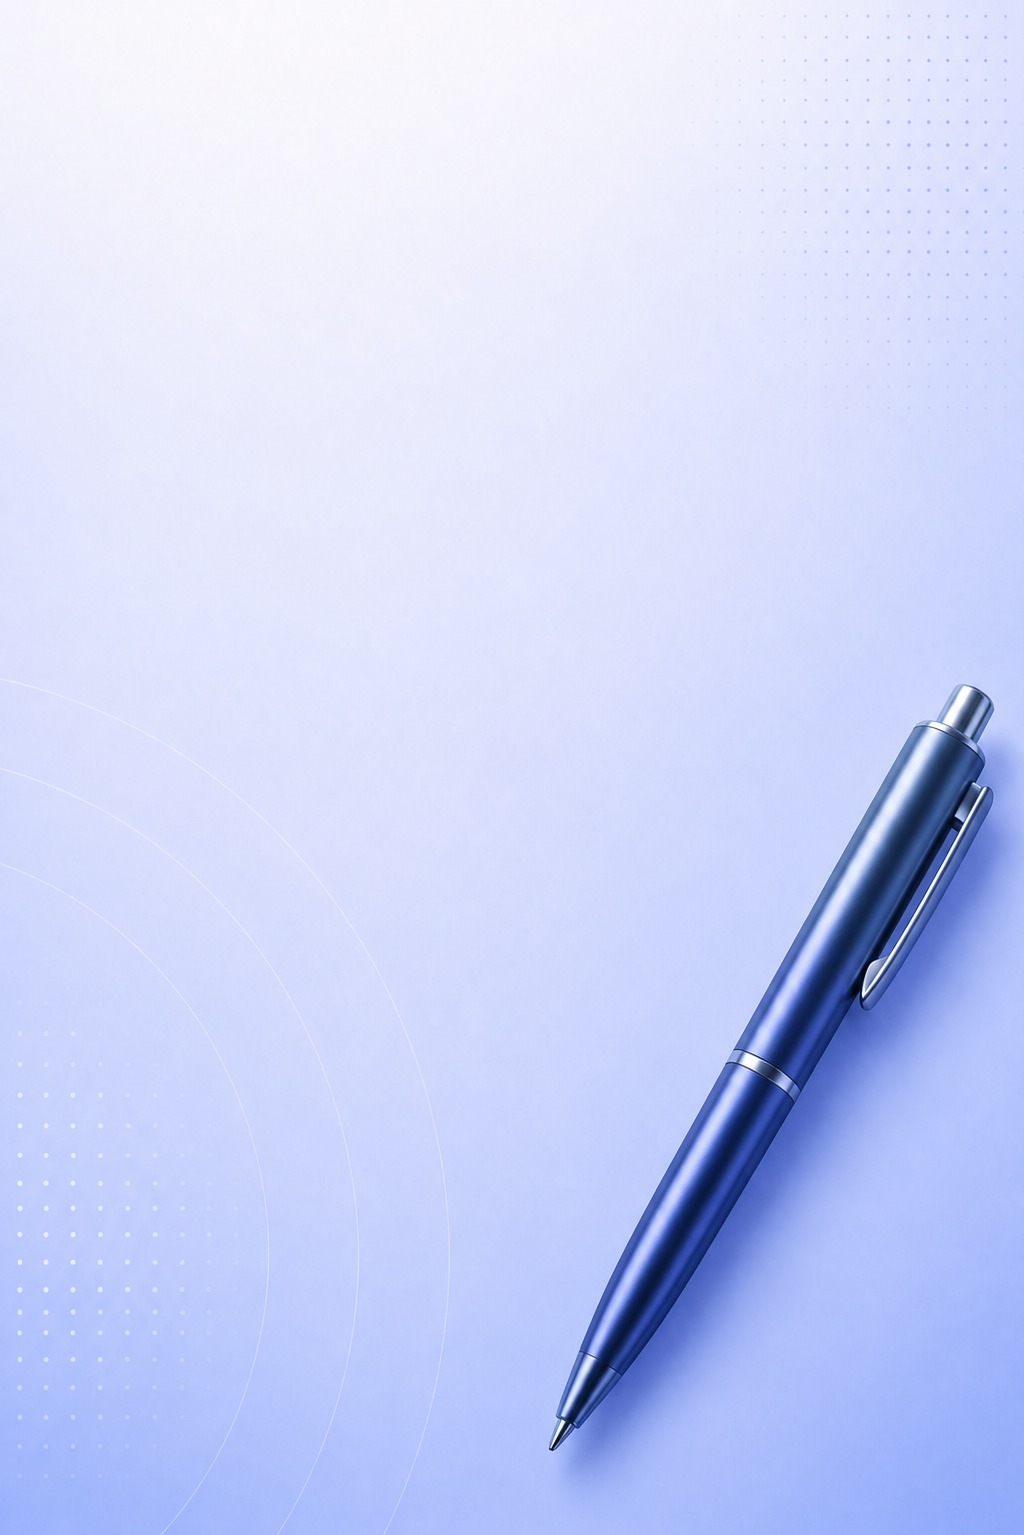
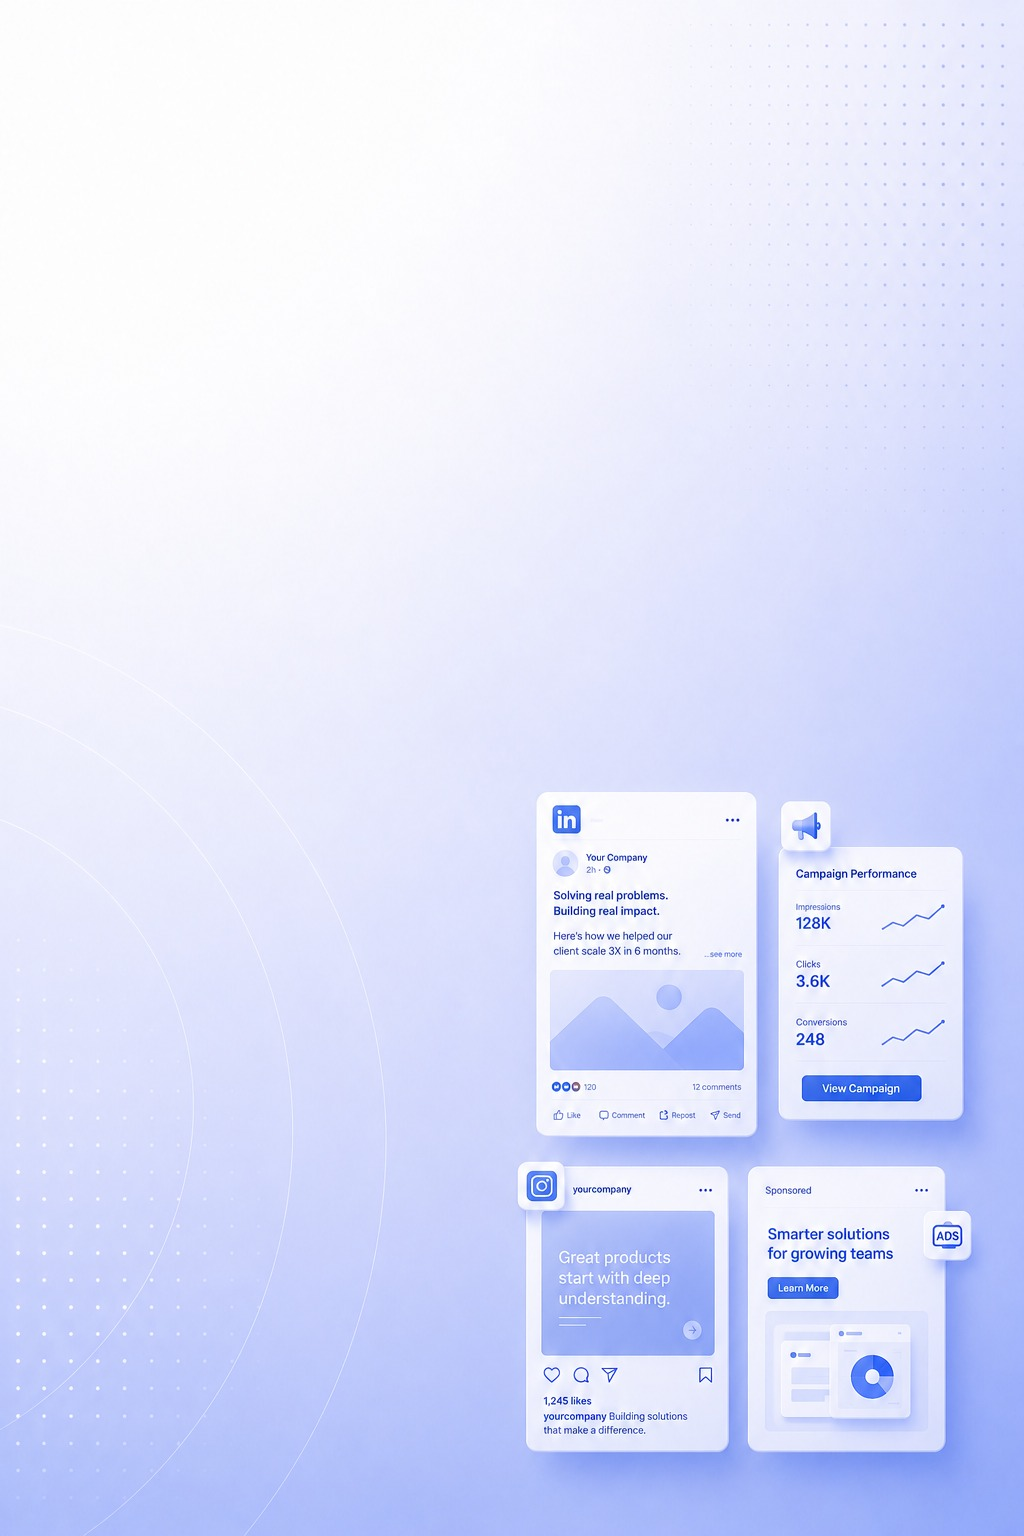
v 8

Changed region(s): [[0.5, 0.4287, 1.0, 0.9798], [0.0, 0.2143, 0.0938, 0.6736]]

diff --git a/pages/Portfolio/components/Hero/index.tsx b/pages/Portfolio/components/Hero/index.tsx
@@ -7,7 +7,7 @@ export function Hero() {
   return (
     <div className="bg-[#FCFCFD]">
       {/* Hero Grid */}
-      <div className="grid grid-cols-1 gap-8 lg:grid-cols-[calc(66.6667%+43px)_calc(33.3333%-43px)] lg:gap-8">
+      <div className="grid grid-cols-1 gap-8 lg:grid-cols-[calc(66.6667%+144px)_calc(33.3333%-144px)] lg:gap-8">
         {/* Left: Hero Content + Illustration + Stats */}
         <div>
           <div className="grid grid-cols-1 gap-8 lg:grid-cols-9 lg:gap-12">

diff --git a/pages/Portfolio/components/ProcessTimeline/index.tsx b/pages/Portfolio/components/ProcessTimeline/index.tsx
@@ -43,7 +43,7 @@ export function ProcessTimeline() {
                 initial={{ opacity: 0, y: 16 }}
                 whileInView={{ opacity: 1, y: 0 }}
                 viewport={{ once: true }}
-                transition={{ duration: 0.5, delay: index * 0.08 }}
+                transition={{ duration: 0.6, delay: index * 1.2 }}
                 className="flex items-start gap-4 sm:flex-col"
               >
                 <div className="relative flex items-center">
